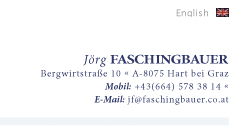
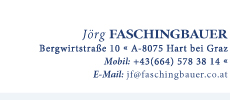
removed language image/link from the address image

Changed region(s): [[0.1522, 0.27, 1.0, 0.84], [0.7609, 0.06, 1.0, 0.15]]

diff --git a/content/3column.css b/content/3column.css
@@ -201,8 +201,16 @@ ul.menu .active, ul.menu a:hover {
     overflow: hidden;
 }
 #right-column-box #logo-box {
+    /* this is the size of the image that it carries - is this good
+       practice? */
     width: 230px;
     height: 126px;
+
+    /* hack; to be removed once I have the language image right. people
+       say IE doesn't get "display: table-cell" right, I don't
+       care. */
+    vertical-align: bottom;
+    display: table-cell;
 }
 
 

diff --git a/layouts/3column.html b/layouts/3column.html
@@ -66,6 +66,7 @@
 
     <div id="right-column-box">
       <div id="logo-box">
+	<!-- <img src="/images/english.jpg" /> -->
 	<img src="/images/adresse.jpg" />
       </div>
       <%= render('contexts/context') %>
